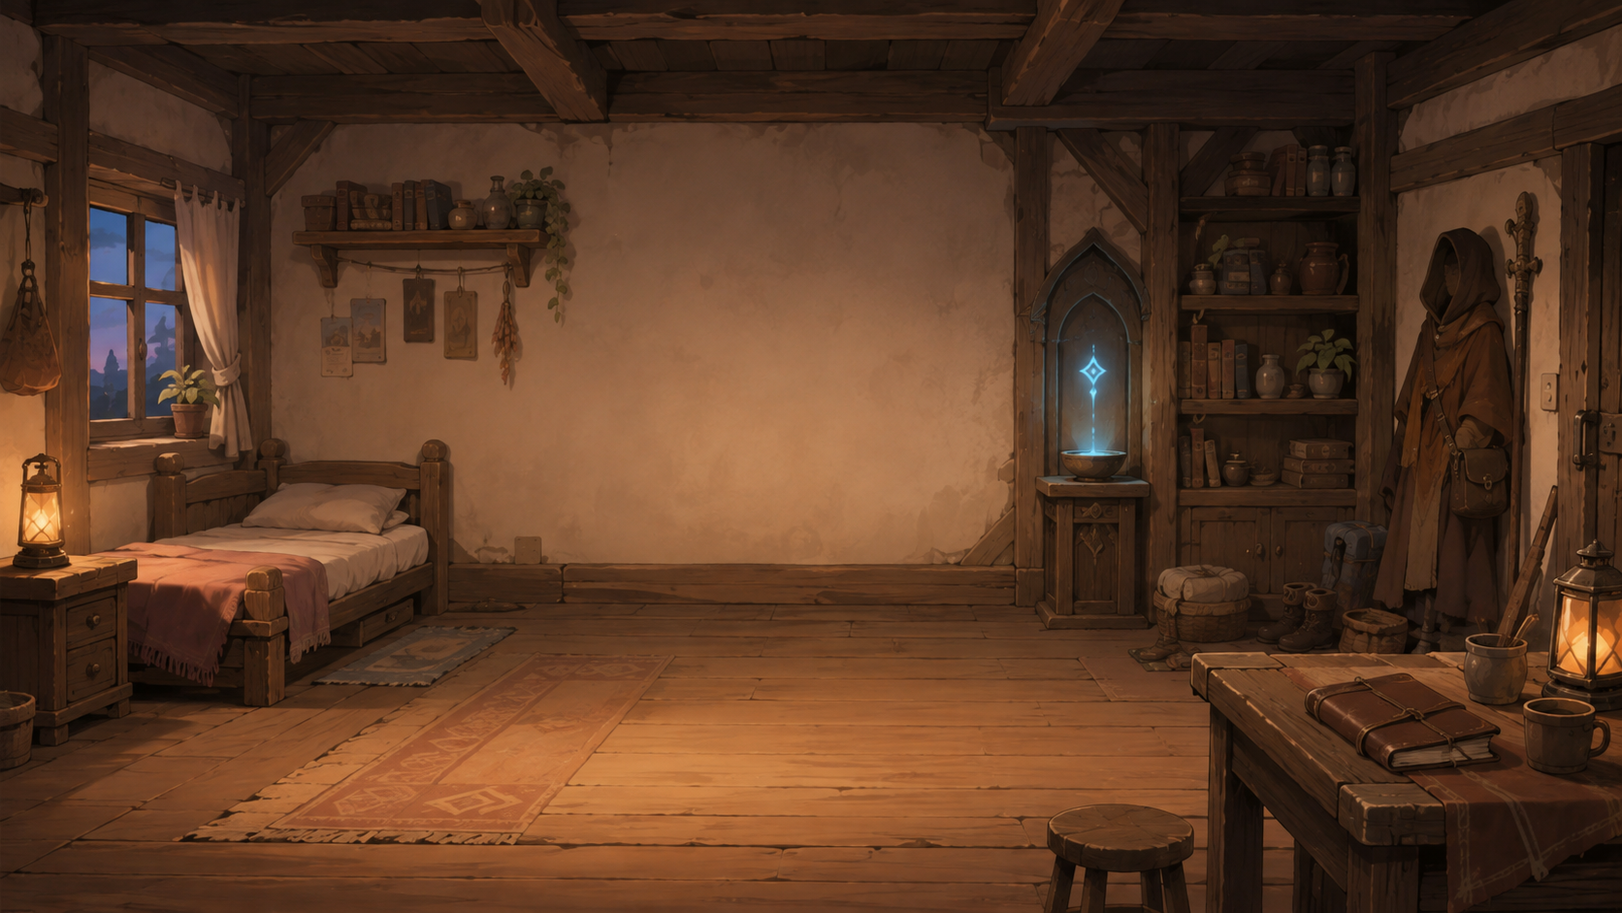
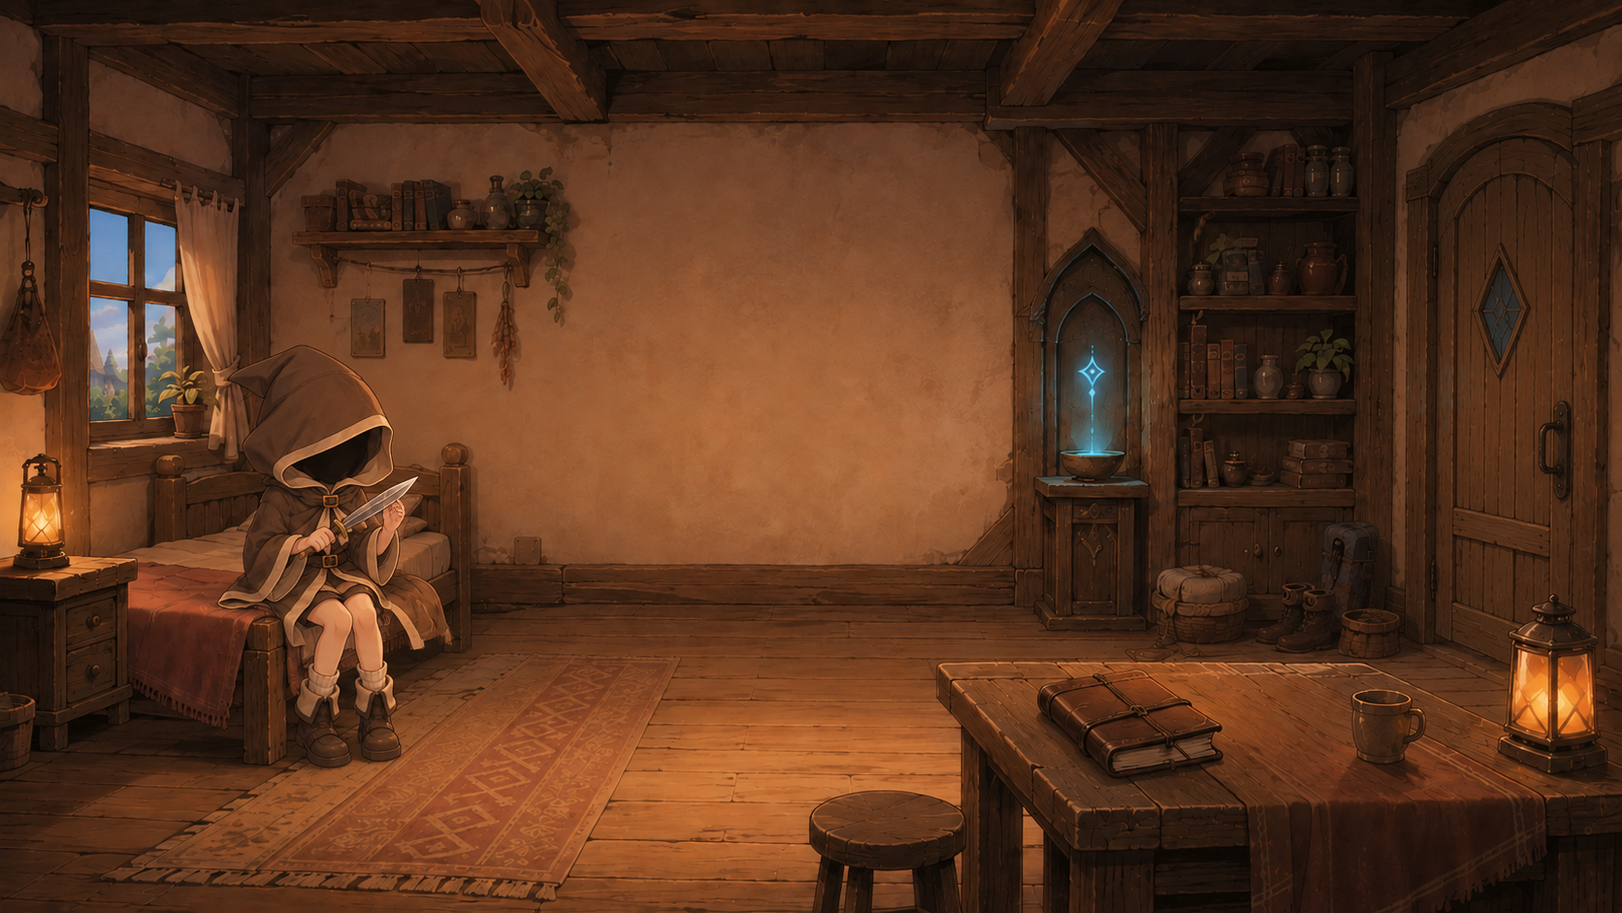
ui: redesign home cultivation and align seated room hotspots

diff --git a/prototype/styles/home-growth.css b/prototype/styles/home-growth.css
@@ -1,0 +1,68 @@
+/* Desktop home cultivation. Combat/expedition detail styling remains independent. */
+@media (min-width: 960px) {
+  #app.homeGrowthActive { width: min(1440px, calc(100vw - 48px)); padding: 24px 32px; border-color: #826544; background: linear-gradient(#241b15dc, #241b15ef), url('../assets/backgrounds/wuming_home.png?v=20260906-seated') center / cover; }
+  .homeGrowthActive #header { border-color: #a7895738; }
+  .homeGrowthActive #prepView, .homeGrowthActive #homeView { padding: 0; border: 0; background: none; box-shadow: none; }
+  .homeGrowthActive #homeGrowthBackBtn { margin: 16px 0 24px; border: 0 !important; background: none !important; box-shadow: none !important; color: #eed7af; font-size: 16px; }
+  .homeGrowthActive .homeGrowthShell { padding: 0 12px 28px; border: 0; background: none; box-shadow: none; }
+  .homeGrowthActive .homeSectionHeading { margin-bottom: 28px; border: 0; color: #f7e4c4; font-family: Georgia, 'Noto Serif TC', serif; font-size: 30px; letter-spacing: .16em; }
+  .homeGrowthActive #homeRoster { grid-template-columns: repeat(auto-fit, minmax(270px, 360px)); gap: 28px; }
+  .homeGrowthActive .homeGrowthCard { grid-template-columns: 1fr; gap: 0; padding: 16px 22px 24px; border: 1px solid #b0915d65; border-radius: 120px 120px 8px 8px; background: radial-gradient(ellipse at 50% 30%, #bd92552e, transparent 65%), linear-gradient(#4c38256b, #251c15d9); box-shadow: none; transition: border-color .2s, background .2s; }
+  .homeGrowthActive .homeGrowthCard:hover:not(.charLocked), .homeGrowthActive .homeGrowthCard:focus-visible { border-color: #e5c087; background-color: #78533238; outline: 2px solid #e5c087; outline-offset: 4px; }
+  .homeGrowthActive .homeGrowthPortrait { height: clamp(270px, 30vh, 360px); border-radius: 0; background: none; overflow: visible; }
+  .homeGrowthActive .homeGrowthPortrait img { object-fit: contain; filter: drop-shadow(0 8px 12px #100b0866); }
+  .homeGrowthActive .homeGrowthInfo { gap: 10px; padding-top: 20px; }
+  .homeGrowthActive .homeGrowthInfo b { color: #ffedce; font-family: Georgia, 'Noto Serif TC', serif; font-size: 28px; }
+  .homeGrowthActive .homeGrowthInfo small, .homeGrowthActive .homeGrowthInfo em, .homeGrowthActive .homeGrowthMeta { color: #d0b998; font-size: 14px; }
+  .homeGrowthActive .homeGrowthMeta .rarityTag { border: 0; padding: 0; }
+  .homeGrowthActive .homeGrowthSkills { margin: 4px 0; gap: 10px; }
+  .homeGrowthActive .homeGrowthSkills img { width: 48px; height: 48px; border-color: #9a79584f; background: #251c154f; }
+  .homeGrowthActive .homeGrowthLock { border-radius: inherit; background: #241c16df; color: #dbc6a6; font-size: 16px; }
+  .homeGrowthActive .homeGrowthNew { top: 16px; right: 16px; }
+
+  #characterDetailOverlay.homeCharacterDetail { background: #1c140fd1; }
+  .homeCharacterDetail #characterDetailModal { width: min(1280px, calc(100vw - 48px)); padding: 28px; border: 1px solid #a58250; border-radius: 12px; background: radial-gradient(ellipse at 10% 40%, #72513255, transparent 48%), #2c2119; color: #f0ddbd; scrollbar-color: #9b7850 #2c2119; }
+  .homeCharacterDetail #characterDetailCloseBtn { width: 40px; height: 40px; top: 0; border-color: #ac8b59; background: #36271e; color: #f8e3bf; }
+  .homeCharacterDetail #characterDetailContent { grid-template-columns: minmax(240px, .85fr) minmax(460px, 1.25fr); gap: 32px; }
+  .homeCharacterDetail .detailPortraitColumn { position: sticky; top: 24px; align-self: start; }
+  .homeCharacterDetail .detailArtFrame { height: min(680px, calc(100dvh - 120px)); min-height: 350px; border: 0; border-radius: 0; background: radial-gradient(ellipse, #c6a2651f, transparent 68%); overflow: visible; box-shadow: none; }
+  .homeCharacterDetail .detailArtFrame::before, .homeCharacterDetail .detailArtFrame::after { display: none; }
+  .homeCharacterDetail .detailArtFrame img { max-height: 100%; object-fit: contain; }
+  .homeCharacterDetail .detailInfo { padding: 0 4px 4px; }
+  .homeCharacterDetail .detailTitleRow h2 { color: #ffebc8; font-family: Georgia, 'Noto Serif TC', serif; font-size: 38px; text-shadow: none; }
+  .homeCharacterDetail .detailTitleRow span { color: #cfb694; font-size: 14px; }
+  .homeCharacterDetail .detailIdentity .detailRarity { border: 0; padding: 0; }
+  .homeCharacterDetail .detailCharacterDescription { padding: 8px 0 14px; border: 0; border-bottom: 1px solid #ac8b593d; background: none; color: #dac6a7; font-size: 16px; }
+  .homeCharacterDetail .detailCharacterDescription::before { display: none; }
+  .homeCharacterDetail .growthWallet span { padding: 7px 9px; border-color: #99774e66; border-radius: 5px; background: #201812; font-size: 14px; }
+  .homeCharacterDetail .detailSectionTitle { color: #dabe93; font-size: 16px; margin-top: 20px; }
+  .homeCharacterDetail .detailSectionHeading small { color: #bca383; font-size: 13px; }
+  .homeCharacterDetail .skinOption { border-color: #806648; background: #382a20; color: #d8c1a0; box-shadow: none; }
+  .homeCharacterDetail .skinOption.selected { border-color: #e1be84; background: #574029; }
+  .homeCharacterDetail .skinOption img { background: none; object-fit: contain; }
+  .homeCharacterDetail .growthVital { background: #3b2a21; color: #d6bea0; font-size: 15px; }
+  .homeCharacterDetail .growthGrid { gap: 10px; }
+  .homeCharacterDetail .growthCard { padding: 12px 12px 26px; gap: 10px; border-color: #806447; background: #36281e; border-radius: 6px; box-shadow: none; }
+  .homeCharacterDetail .growthCard:hover { background: #483426; border-color: #ccaa76; }
+  .homeCharacterDetail .growthCard.selected { border-color: #e5c087; background: #59412a; box-shadow: inset 3px 0 #e5c087; }
+  .homeCharacterDetail .growthCard.actionCard::after { color: #e3be79; }
+  .homeCharacterDetail .growthCard img { background: #241a1366; object-fit: contain; }
+  .homeCharacterDetail .growthCardText b { font-size: 16px; color: #f7e4c7; }
+  .homeCharacterDetail .growthCardText small { color: #d3b998; font-size: 14px; }
+  .homeCharacterDetail .growthLevel { top: auto; bottom: 6px; right: 10px; color: #efd197; font-size: 13px; }
+  .homeCharacterDetail .growthLevel::before { color: #c3a885; }
+  .homeCharacterDetail .growthInspector { padding: 18px; border-color: #b28d56; background: #211911; }
+  .homeCharacterDetail .growthInspectorHead h3 { color: #ffe6bb; font-size: 21px; }
+  .homeCharacterDetail .growthInspectorHead span, .homeCharacterDetail .growthSkillDescription > span, .homeCharacterDetail .growthCost { color: #c9ae88; font-size: 14px; }
+  .homeCharacterDetail .growthSkillDescription { color: #eddbbd; font-size: 16px; }
+  .homeCharacterDetail .growthCompare > div { background: #3a2b1f; padding: 12px; }
+  .homeCharacterDetail .growthCompare small { color: #c5a984; font-size: 14px; }
+  .homeCharacterDetail .growthCompare strong { color: #f5e1c0; font-size: 16px; }
+  .homeCharacterDetail #growthUpgradeBtn { min-height: 44px; font-size: 16px; background: #815a2e; border-color: #cea565; }
+  .homeCharacterDetail #growthUpgradeBtn:hover:not(:disabled) { background: #9a703b; }
+  .homeCharacterDetail #growthUpgradeBtn:disabled { background: #352c24; color: #b6a18a; border-color: #6d5842; }
+  .homeCharacterDetail button:focus-visible { outline: 2px solid #f3d397; outline-offset: 3px; }
+  @media (prefers-reduced-motion: reduce) {
+    .homeGrowthActive .homeGrowthCard { transition: none; }
+  }
+}

diff --git a/prototype/styles/home.css b/prototype/styles/home.css
@@ -1,5 +1,5 @@
-/* Existing interior art, desktop scene layout. Growth screens and existing
-   small-screen rules are untouched; there is no new mobile design here. */
+/* User-supplied interior art, desktop scene layout. Cultivation is styled
+   separately in home-growth.css; there is no new mobile design here. */
 #homeMenu #xiaochuTalkBtn.soulConversation > img { display: none; }
 @media (min-width: 960px) {
   #app.homeSceneActive {
@@ -26,11 +26,14 @@
     aspect-ratio: 1672 / 941;
     border: 0;
     border-radius: 0;
-    background: linear-gradient(180deg, #20180f0d 70%, #20180f40), url('../assets/backgrounds/wuming_home.png') center / 100% 100% no-repeat;
+    background: linear-gradient(180deg, #20180f0d 70%, #20180f40), url('../assets/backgrounds/wuming_home.png?v=20260906-seated') center / 100% 100% no-repeat;
     box-shadow: none;
   }
-  .homeSceneActive .homeTopbar { position: absolute; z-index: 2; top: 88px; left: 3.5%; display: flex; align-items: start; flex-direction: column; gap: 14px; padding: 0; margin: 0; border: 0; pointer-events: none; }
-  .homeSceneActive #homeBackBtn { pointer-events: auto; padding: 5px 0 !important; border: 0 !important; background: transparent !important; box-shadow: none !important; color: #ddc6a2; font-size: 15px; text-shadow: 0 2px 5px #19120f; }
+  .homeSceneActive .homeTopbar { position: absolute; z-index: 2; inset: 0; display: block; padding: 0; margin: 0; border: 0; pointer-events: none; }
+  .homeSceneActive .homeTopbar > div { position: absolute; top: 88px; left: 3.5%; }
+  .homeSceneActive #homeBackBtn { position: absolute; left: 87%; top: 22%; width: 11%; height: 48%; display: flex; align-items: end; justify-content: center; }
+  .homeSceneActive #homeBackBtn { pointer-events: auto; padding: 5px 0 !important; border: 0 !important; background: transparent !important; box-shadow: none !important; color: #fff0d9; font-family: Georgia, 'Noto Serif TC', serif; font-size: 23px; text-shadow: 0 2px 5px #19120f; }
+  .homeSceneActive #homeBackBtn:focus-visible { outline: 2px dashed #eac78a; outline-offset: 5px; }
   .homeSceneActive #homeBackBtn:hover:not(:disabled) { color: #fff2da; }
   .homeSceneActive #homeView .prepHeading { font-family: Georgia, 'Noto Serif TC', serif; font-size: 34px; color: #fff0d4; letter-spacing: .2em; text-shadow: 0 2px 8px #25170e; }
   .homeSceneActive #homeView .prepMsg { display: none; }
@@ -52,17 +55,17 @@
     animation: none;
   }
   .homeSceneActive #homeMenu .homeFacilityBtn[hidden] { display: none; }
-  .homeSceneActive #homeGrowthBtn { left: 13%; top: 75%; width: 23%; height: 14%; }
+  .homeSceneActive #homeGrowthBtn { left: 12%; top: 39%; width: 17%; height: 46%; }
   .homeSceneActive #xiaochuTalkBtn { left: 37%; top: 20%; width: 25%; height: 65%; }
   .homeSceneActive #xiaochuTalkBtn.soulConversation { left: 37%; top: 80%; width: 25%; height: 12%; }
-  .homeSceneActive #travelJournalBtn { left: 77%; top: 69%; width: 21%; height: 25%; }
+  .homeSceneActive #travelJournalBtn { left: 62%; top: 72%; width: 17%; height: 22%; }
   .homeSceneActive #contractFacilityBtn { left: 63%; top: 25%; width: 13%; height: 45%; }
   .homeSceneActive #homeMenu .homeFacilityBtn > img { position: absolute; inset: 0; width: 100%; height: 93%; max-width: none; max-height: none; object-fit: contain; object-position: center bottom; filter: drop-shadow(0 8px 14px #160c084d); }
   .homeSceneActive #travelJournalBtn > img, .homeSceneActive #contractFacilityBtn > img { display: none; }
   .homeSceneActive #homeMenu .homeFacilityBtn > span:not(.homeGuideHina) { position: absolute; top: 94%; left: 50%; transform: translateX(-50%); width: max-content; max-width: 290px; display: flex; flex-direction: column; align-items: center; gap: 4px; pointer-events: none; }
   .homeSceneActive #homeMenu #travelJournalBtn > span:not(.homeGuideHina) { top: 52%; }
   .homeSceneActive #homeMenu #xiaochuTalkBtn.soulConversation > span:not(.homeGuideHina) { top: 0; }
-  .homeSceneActive #homeMenu #homeGrowthBtn > span:not(.homeGuideHina) { top: 0; }
+  .homeSceneActive #homeMenu #homeGrowthBtn > span:not(.homeGuideHina) { top: 100%; }
   .homeSceneActive #homeMenu .homeFacilityBtn b { position: relative; pointer-events: auto; padding: 6px 14px 13px; font-family: Georgia, 'Noto Serif TC', serif; color: #fff0d9; font-size: 23px; font-weight: 600; letter-spacing: .12em; text-shadow: 0 2px 3px #21160f, 0 0 9px #21160f; }
   .homeSceneActive #homeMenu .homeFacilityBtn b::after { content: ''; position: absolute; bottom: 4px; left: 50%; transform: translateX(-50%); width: 44px; height: 1px; background: linear-gradient(90deg, transparent, #f6cf8c 25%, #f6cf8c 75%, transparent); transition: width .2s; }
   .homeSceneActive #homeMenu .homeFacilityBtn small { font-size: 14px; color: #f4dfbc; line-height: 1.5; max-width: 280px; padding: 3px 12px; text-align: center; text-shadow: 0 1px 4px #21160f, 0 0 8px #21160f; background: radial-gradient(ellipse, #30271eb0, transparent 75%); opacity: 0; transition: opacity .18s; }
@@ -73,7 +76,7 @@
   .homeSceneActive #homeMenu .homeFacilityBtn:disabled { opacity: .45; cursor: default; }
   .homeSceneActive #homeMenu .homeFacilityBtn.storyFocusTarget { opacity: 1; }
   .homeSceneActive #homeMenu .homeGuideHina { top: auto; bottom: 16%; right: -70px; width: 180px; height: 218px; }
-  .homeSceneActive #homeMenu #homeGrowthBtn .homeGuideHina { right: -20%; bottom: 80%; }
+  .homeSceneActive #homeMenu #homeGrowthBtn .homeGuideHina { right: -65%; bottom: 40%; }
   @media (prefers-reduced-motion: reduce) {
     .homeSceneActive #homeMenu .homeFacilityBtn b::after, .homeSceneActive #homeMenu .homeFacilityBtn small { transition: none; }
   }

diff --git a/tests/ui-regression.test.js b/tests/ui-regression.test.js
@@ -1266,7 +1266,33 @@ async function testDesktopHome(browser) {
     await page.click('#homeGrowthBtn b');
     assert.equal(await page.locator('#homeGrowthView').isVisible(), true);
     assert.equal(await page.locator('#app').evaluate(el => el.classList.contains('homeSceneActive')), false);
+    assert.equal(await page.locator('#app').evaluate(el => el.classList.contains('homeGrowthActive')), true);
+    await page.locator('#homeRoster .homeGrowthPortrait img').first().evaluate(img => img.decode());
+    await page.waitForTimeout(650);
+    if (process.argv.includes('--home-only')) await page.screenshot({ path: path.resolve(__dirname, `../test-results/home-growth-roster-${width}.png`) });
+    await page.locator('#homeRoster .homeGrowthCard:not(.charLocked)').first().click();
+    assert.equal(await page.locator('#characterDetailOverlay').evaluate(el => el.classList.contains('homeCharacterDetail')), true);
+    await page.locator('.detailArtFrame img').evaluate(img => img.decode());
+    await page.waitForTimeout(250);
+    const detailLayout = await page.locator('#characterDetailModal').evaluate(el => {
+      const rect = el.getBoundingClientRect();
+      return { fits: rect.left >= 0 && rect.right <= innerWidth && rect.bottom <= innerHeight,
+        overflow: el.scrollWidth > el.clientWidth,
+        contained: getComputedStyle(el.querySelector('.detailArtFrame img')).objectFit === 'contain' };
+    });
+    assert.ok(detailLayout.fits && !detailLayout.overflow && detailLayout.contained, 'home detail fits desktop and preserves full art');
+    if (process.argv.includes('--home-only')) await page.screenshot({ path: path.resolve(__dirname, `../test-results/home-growth-detail-${width}.png`) });
+    await page.locator('.growthCard[data-line="action"]').click();
+    assert.ok(await page.locator('.growthInspectorHead h3').textContent());
+    await page.click('#characterDetailCloseBtn');
     await page.click('#homeGrowthBackBtn');
+    const door = await page.locator('#homeBackBtn').evaluate(el => {
+      const r = el.getBoundingClientRect();
+      const scene = document.querySelector('#homeView').getBoundingClientRect();
+      return { rightSide: r.left > scene.left + scene.width * .8,
+        hit: el.contains(document.elementFromPoint(r.x + r.width / 2, r.y + r.height / 2)) };
+    });
+    assert.ok(door.rightSide && door.hit, 'exit is a clickable door hotspot');
     assert.equal(await page.locator('#homeGrowthBtn > img').count(), 0, 'no resident guide portrait');
     await page.evaluate(async () => {
       const { gameState, RESONANCE_STATES } = await import('./js/state.js');

diff --git a/prototype/js/ui-main.js b/prototype/js/ui-main.js
@@ -1,7 +1,7 @@
 import { CHAR_DEFS, RARITY_DEFS, regionName, localizedRegionDef, MOBS_PER_FLOOR, SOLO_PARTY_LIMIT, GOO_SKILL_CD_MS, ITEM_DEFS, RUINS_KILL_TARGET } from './constants.js';
 import {
   gameState, PHASES, isPrepPhase, isCombatSurfacePhase, contractStoryLocked, isCharUnlocked,
-  characterPortraitPath, characterBattlePortraitPath, characterSkins, equippedSkin, unlockReqText, aliveMonsters,
+  characterPortraitPath, characterFullArtPath, characterBattlePortraitPath, characterSkins, equippedSkin, unlockReqText, aliveMonsters,
   RESONANCE_STATES, setResonanceState, CHAPTER1_STATES,
   characterActionInterval, characterActionCooldown,
   activeCharacterStatuses,
@@ -198,7 +198,7 @@ export function buildUI() {
     card.innerHTML = `
       <span class="homeGrowthNew" hidden>NEW</span>
       <span class="homeGrowthPortrait">
-        <img src="${characterPortraitPath(c.id)}" alt="${def.name}" onerror="this.style.display='none';this.nextElementSibling.style.display='flex';">
+        <img src="${characterFullArtPath(c.id)}" alt="${def.name}" onerror="this.style.display='none';this.nextElementSibling.style.display='flex';">
         <span class="fallback" style="display:none;">缺少圖片</span>
       </span>
       <span class="homeGrowthInfo">
@@ -519,6 +519,7 @@ export function render() {
   app.classList.toggle('villageActive', atVillageSurface);
   const atHomeSurface = gameState.phase === PHASES.PREP_FLOOR && !gameState.partyLocked && overlayUiState.prepLocation === 'home';
   app.classList.toggle('homeSceneActive', atHomeSurface && overlayUiState.homeMode === 'menu');
+  app.classList.toggle('homeGrowthActive', atHomeSurface && overlayUiState.homeMode === 'growth');
   const atRegionSurface = gameState.phase === PHASES.PREP_FLOOR && !gameState.partyLocked && overlayUiState.prepLocation === 'regions';
   const visibleSurface = !inPrep
     ? document.getElementById('combatView')
@@ -630,7 +631,7 @@ export function renderPrepView() {
   Object.entries(overlayUiState.homeEls).forEach(([id, refs]) => {
     const c = gameState.roster.find(entry => entry.id === id);
     refs.lvl.textContent = c.level;
-    refs.portrait.src = characterPortraitPath(id);
+    refs.portrait.src = characterFullArtPath(id);
     const unlocked = isCharUnlocked(id);
     const isNew = unlocked && !gameState.seenCharacterIds.has(id);
     refs.card.classList.toggle('charLocked', !unlocked);

diff --git a/prototype/index.html b/prototype/index.html
@@ -13,7 +13,8 @@
 <link rel="stylesheet" href="styles/journal.css?v=20260905-2">
 <link rel="stylesheet" href="styles/shop.css?v=20260905-1">
 <link rel="stylesheet" href="styles/village.css?v=20260905-4">
-<link rel="stylesheet" href="styles/home.css?v=20260905-2">
+<link rel="stylesheet" href="styles/home.css?v=20260906-3">
+<link rel="stylesheet" href="styles/home-growth.css?v=20260906-1">
 </head>
 <body>
 
@@ -508,6 +509,6 @@
   </div>
 </div>
 
-<script type="module" src="js/main.js?v=20260906-esm13"></script>
+<script type="module" src="js/main.js?v=20260906-esm14"></script>
 </body>
 </html>

diff --git a/prototype/js/ui-character.js b/prototype/js/ui-character.js
@@ -19,6 +19,7 @@ export function setCharacterDetailOpen(open, characterId = null) {
   gameState.activeOverlay = open ? 'characterDetail' : (gameState.activeOverlay === 'characterDetail' ? null : gameState.activeOverlay);
   const overlay = document.getElementById('characterDetailOverlay');
   overlay.classList.toggle('open', open);
+  overlay.classList.toggle('homeCharacterDetail', open && overlayUiState.prepLocation === 'home');
   overlay.setAttribute('aria-hidden', String(!open));
   hideTooltip();
   if (!open) return;

diff --git a/design.md b/design.md
@@ -150,7 +150,8 @@
 - 村莊介面以場景為主：地點名稱使用暖白字、細金線與柔和暗影，不用厚底框；滑鼠移入或鍵盤選取時才顯示功能說明。頂部工具列疊在場景上，以柔和暗色漸層承托小型標誌與低調的開發工具，不另占一條實色區塊。村莊物品庫入口已隱藏，其他畫面與戰鬥的背包入口保留。
 - 存檔／讀檔入口暫時從所有畫面隱藏，現有程式與資料格式保留，暫不繼續開發存讀檔功能；不代表已新增自動存檔。不改背包內容與戰鬥工具列樣式。
 - 最新玩家提供的小初全身立繪、女神立繪、女神對話與天堂轉場新版光環已套用。露咪依最新決定使用 merchant_full.png，Q 版保留但不作為商店主立繪；未替親吻圖片新增劇情用途。
-- 家的桌面主選單已改為場景式介面：沿用 wuming_home.png，不重畫；角色培養是左側床尾、地毯前方的主要文字入口，不硬綁到右側裝備，也不放常駐緋奈立繪。緋奈只在需要引導時出現。小初同行時顯示立繪，契約後住在無名體內，只保留聊天文字入口。桌上的書對應旅人手記，祝福台對應締結誓約。沿用暖白字／細金線，功能顯示與劇情引導依既有狀態切換。角色培養內頁與所有劇情、契約邏輯保持不變；既有窄畫面樣式保留，不另設計手機版。
+- 家的桌面主選單採用使用者更新的 wuming_home.png：點左側坐在床沿的無名進入角色培養，點右側房門返回村莊；手記入口對準桌上的書，祝福台對應締結誓約。維持暖白字／細金線，不放常駐緋奈立繪，緋奈只在需要引導時出現。小初同行時顯示立繪，契約後住在無名體內，只保留聊天文字入口。功能顯示、操作鎖與劇情引導依既有狀態切換。
+- 家中的角色培養改成暖棕／淡金介面：名冊展示完整立繪，詳情左側保留完整人物、不裁切或底部淡出，右側顯示外觀、能力、技能、目前／下一級比較與書本消耗。放大文字和圖示，長內容可捲動，保留點擊／長按升級與外觀切換；不改技能效果、解鎖或契約流程。樣式由 home-growth.css 管理，只套用桌面家中培養，不影響遠征詳情；既有窄畫面樣式保留，不另設計手機版。
 - 遠征入口先選區域，再選附身角色、藥水與護符；目前只有史萊姆叢林。
 - 現有森林流程仍是兩波小怪、每波隨機 2～3 隻，清完後進入史萊姆王。這是現有戰鬥原型，不代表未來仍採樓層制。
 - 每波結束會抽取途中事件；事件使用洗牌袋抽取，盡量避免連續重複。已有選擇事件與藥草、記憶結晶、菌環、黏液泡、補給箱、水渠等互動小遊戲。

diff --git a/docs/home-scene-2026-09-05.md b/docs/home-scene-2026-09-05.md
@@ -1,5 +1,15 @@
 # Home scene UI
 
+## 2026-09-06 cultivation update (current)
+
+The user replaced wuming_home.png with a seated Wuming and a complete right-hand door. The growth hotspot now covers Wuming, the village return covers the door, and the journal hotspot aligns with the new table book. The original button IDs, story locks and guide targets remain intact. The new background is user-provided; no art was generated or edited in this implementation.
+
+Desktop cultivation uses home-growth.css: warm brown/gold full-art roster, larger typography and icons, and a two-column detail surface with uncropped full art on the left and existing upgrade controls on the right. The art stays visible while long details scroll. No bottom fade. Home-only classes keep expedition details independent. Full-art paths follow equipped skins; skill mechanics, costs, repeat-upgrade handling, locks and plot are unchanged. Asset and entry stylesheet URLs are versioned for the new image/layout.
+
+Validation: the unit suite and full browser regression suite passed. Desktop home checks (1024/1440/1920) cover full-art loading, detail containment, skill selection, return round trip, door hit testing and existing story states. Screenshots: test-results/home-growth-roster-1440.png, home-growth-detail-1440.png. The earlier notes below describe the superseded layout.
+
+## Previous iteration
+
 The desktop home menu displays the existing wuming_home.png at its full aspect ratio without the previous dark card stack. No artwork was generated or edited. Growth is the primary text entry on the left at the foot of the bed, not the right-hand equipment rack. Hina has no resident portrait and appears only when guidance is needed. Following Xiaochu keeps her full portrait; contracted Xiaochu has a compact text-only conversation entry because she resides within Wuming. The journal and covenant target the book on the table and the blessing alcove.
 
 home.css scopes the scene to homeSceneActive at desktop widths. Entering growth or another location restores the previous app layout. Underlying button IDs, hidden and disabled states, story guide reparenting, dialogue and covenant flows are unchanged. Keyboard focus and reduced motion are supported. Existing narrow-screen styling remains; no new mobile layout was designed.
